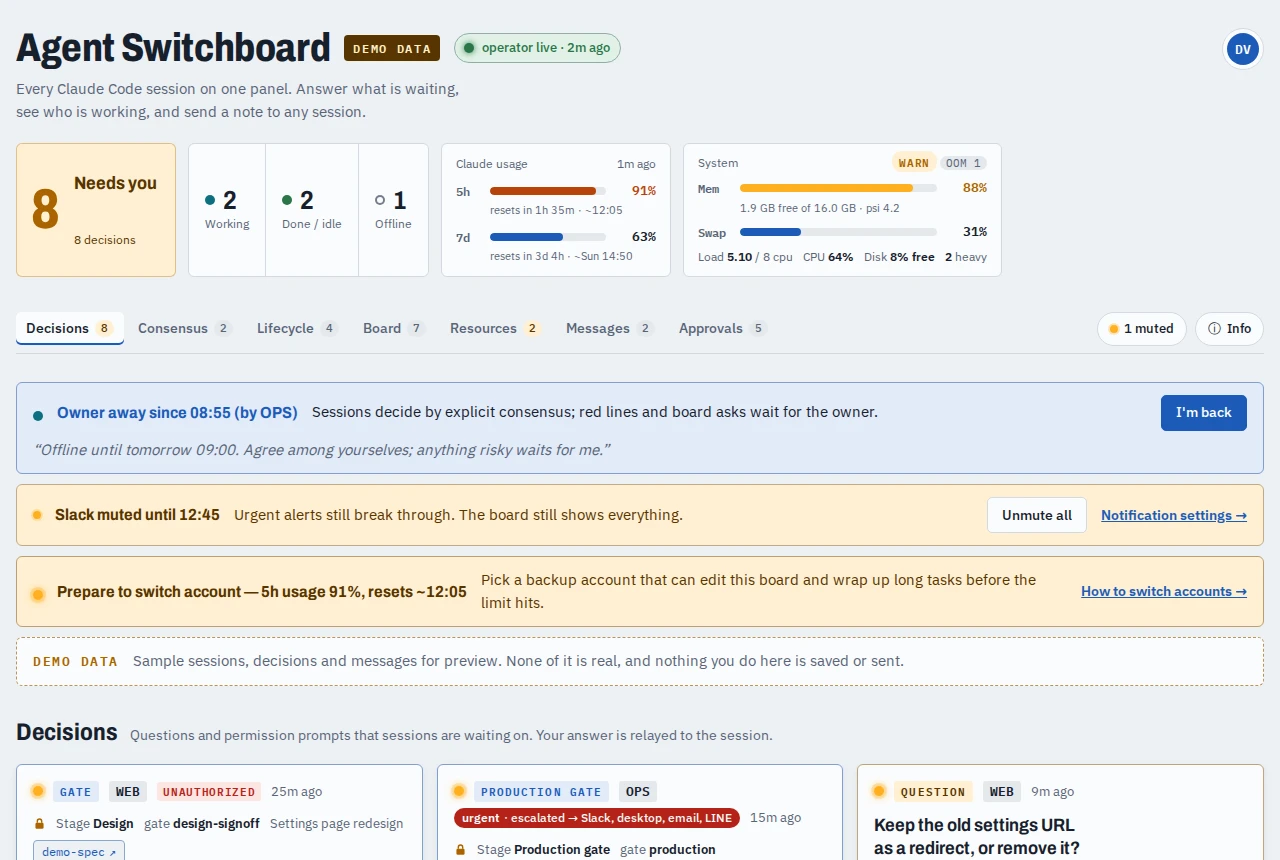
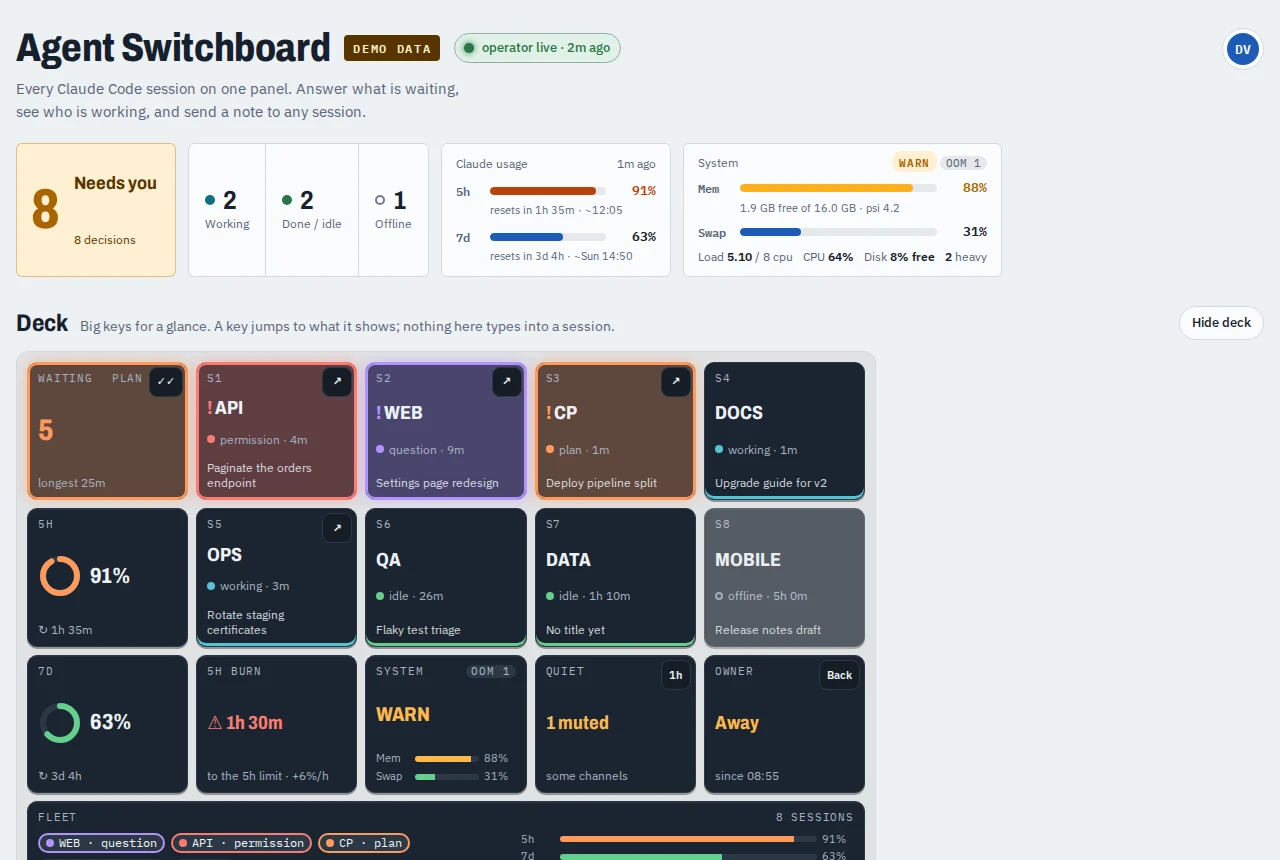
docs: reshoot the screenshots with the Deck panel, add a deck close-up
scripts/screenshots.py renders a new deck shot (the Deck panel, dark); it is in both README galleries (zh-TW caption and alt text), the Pages index (from the script's list) and test_site's expected set (12). The overviews, cards, decisions, popover, menu and phone shots are re-rendered with the deck on the page; the light overview's alt text now describes what it shows. Under reduced motion the usage ring no longer transitions.

diff --git a/artifact/board.html b/artifact/board.html
@@ -674,6 +674,7 @@ table.log { border-collapse: collapse; width: 100%; font-size: 13px; min-width: 
 @media (prefers-reduced-motion: reduce) {
   .dkey.waiting { animation: none; background: color-mix(in srgb, var(--kc) 30%, var(--dk-face)); }
   .dkey:active { transform: none; }
+  .dkey .k-ring .val { transition: none; }
 }
 .dkey .k-bang { display: none; margin-right: 3px; }
 /* the HITL key */

diff --git a/scripts/screenshots.py b/scripts/screenshots.py
@@ -49,8 +49,9 @@ PHONE = {"width": 390, "height": 844}
 
 # name: (alt text, viewport, color scheme, device scale factor)
 SHOTS = {
-    "overview-light": ("The board in light mode: decisions waiting, usage meters, owner-away banner", DESKTOP, "light", 1),
+    "overview-light": ("The board in light mode: the needs-you count, usage and system meters, and the Deck panel", DESKTOP, "light", 1),
     "overview-dark": ("The board in dark mode", DESKTOP, "dark", 1),
+    "deck": ("The Deck panel: the HITL count, session keys coloured by what they wait for, usage rings, the burn rate and the fleet strip", DESKTOP, "dark", 1),
     "session-card": ("Session cards by state, one expanded with its title, pending decisions, running tool and tmux target", DESKTOP, "light", 1),
     "decisions": ("Decision cards: a permission prompt with Allow / Deny and a question with its options", DESKTOP, "light", 1),
     "notifications": ("The Notifications dialog: mutes, triage floor and presence", {"width": 1280, "height": 1100}, "light", 1),
@@ -139,6 +140,8 @@ def shoot(page, name):
         page.click('article[aria-label="Session API"] .scard-toggle')
         page.wait_for_timeout(150)
         return page.screenshot(full_page=True, clip=union(page, ["#board .sec-head", "#board-cols"]))
+    if name == "deck":
+        return page.locator("#deck").screenshot()
     if name == "decisions":
         return page.screenshot(full_page=True, clip=union(page, ["#decisions .sec-head", "#dec-d-1-demo", "#dec-d-2-demo"]))
     if name == "notifications":

diff --git a/tests/test_site.py b/tests/test_site.py
@@ -76,7 +76,7 @@ def main():
         check("the script runs", r.returncode == 0, r.stderr[-400:])
         want = sorted(n + ".webp" for n in names)
         got = sorted(os.listdir(shots)) if os.path.isdir(shots) else []
-        check("every shot is written (%d)" % len(want), got == want and len(want) == 11, got)
+        check("every shot is written (%d)" % len(want), got == want and len(want) == 12 and "deck.webp" in want, got)
         for f in got:
             with open(os.path.join(shots, f), "rb") as fh:
                 head = fh.read(12)

diff --git a/README.zh-TW.md b/README.zh-TW.md
@@ -27,12 +27,12 @@
 
 | | |
 |---|---|
-| <a href="docs/assets/screenshots/overview-zh.webp"><img src="docs/assets/screenshots/overview-zh.webp" width="420" alt="繁體中文介面的看板"></a><br>總覽（繁體中文） | <a href="docs/assets/screenshots/overview-light.webp"><img src="docs/assets/screenshots/overview-light.webp" width="420" alt="淺色模式的看板：待決策、用量表、主人不在的橫幅"></a><br>總覽（English，淺色） |
-| <a href="docs/assets/screenshots/overview-dark.webp"><img src="docs/assets/screenshots/overview-dark.webp" width="420" alt="深色模式的看板"></a><br>總覽（深色） | <a href="docs/assets/screenshots/session-card.webp"><img src="docs/assets/screenshots/session-card.webp" width="420" alt="依狀態分欄的 session 卡片，其中一張展開，顯示標題、待決策、執行中的工具和 tmux 目標"></a><br>Session 卡片，其中一張展開 |
-| <a href="docs/assets/screenshots/decisions.webp"><img src="docs/assets/screenshots/decisions.webp" width="420" alt="決策卡片：有 Allow / Deny 的權限提示，以及附選項的問題"></a><br>決策：權限提示、問題、關卡 | <a href="docs/assets/screenshots/notifications.webp"><img src="docs/assets/screenshots/notifications.webp" width="420" alt="通知對話框：靜音、分級門檻和在線狀態"></a><br>通知：靜音與分級 |
-| <a href="docs/assets/screenshots/resources.webp"><img src="docs/assets/screenshots/resources.webp" width="420" alt="資源區塊：記憶體、swap、磁碟和各 session 的程序"></a><br>資源：記憶體、磁碟、程序 | <a href="docs/assets/screenshots/usage-popover.webp"><img src="docs/assets/screenshots/usage-popover.webp" width="420" alt="用量提示框：兩個區間的重設時間、達到的門檻和帳號"></a><br>用量提示框：重設時間、門檻、帳號 |
-| <a href="docs/assets/screenshots/profile-menu.webp"><img src="docs/assets/screenshots/profile-menu.webp" width="420" alt="個人選單：身分、角色、主題與語言切換和 API 金鑰"></a><br>個人選單：主題與語言 | <a href="docs/assets/screenshots/phone-dark.webp"><img src="docs/assets/screenshots/phone-dark.webp" width="420" alt="手機上的看板，深色模式"></a><br>手機，深色模式 |
-| <a href="docs/assets/screenshots/pwa-standalone.webp"><img src="docs/assets/screenshots/pwa-standalone.webp" width="420" alt="iPhone 主畫面 app 的看板，避開狀態列"></a><br>iPhone 主畫面 app |  |
+| <a href="docs/assets/screenshots/overview-zh.webp"><img src="docs/assets/screenshots/overview-zh.webp" width="420" alt="繁體中文介面的看板"></a><br>總覽（繁體中文） | <a href="docs/assets/screenshots/overview-light.webp"><img src="docs/assets/screenshots/overview-light.webp" width="420" alt="淺色模式的看板：待你處理的數量、用量與系統表，以及按鍵面板"></a><br>總覽（English，淺色） |
+| <a href="docs/assets/screenshots/overview-dark.webp"><img src="docs/assets/screenshots/overview-dark.webp" width="420" alt="深色模式的看板"></a><br>總覽（深色） | <a href="docs/assets/screenshots/deck.webp"><img src="docs/assets/screenshots/deck.webp" width="420" alt="按鍵面板：等待數、依等待內容上色的 session 按鍵、用量圓環、消耗速度和全體長條"></a><br>按鍵面板：等待中的按鍵、用量、消耗速度 |
+| <a href="docs/assets/screenshots/session-card.webp"><img src="docs/assets/screenshots/session-card.webp" width="420" alt="依狀態分欄的 session 卡片，其中一張展開，顯示標題、待決策、執行中的工具和 tmux 目標"></a><br>Session 卡片，其中一張展開 | <a href="docs/assets/screenshots/decisions.webp"><img src="docs/assets/screenshots/decisions.webp" width="420" alt="決策卡片：有 Allow / Deny 的權限提示，以及附選項的問題"></a><br>決策：權限提示、問題、關卡 |
+| <a href="docs/assets/screenshots/notifications.webp"><img src="docs/assets/screenshots/notifications.webp" width="420" alt="通知對話框：靜音、分級門檻和在線狀態"></a><br>通知：靜音與分級 | <a href="docs/assets/screenshots/resources.webp"><img src="docs/assets/screenshots/resources.webp" width="420" alt="資源區塊：記憶體、swap、磁碟和各 session 的程序"></a><br>資源：記憶體、磁碟、程序 |
+| <a href="docs/assets/screenshots/usage-popover.webp"><img src="docs/assets/screenshots/usage-popover.webp" width="420" alt="用量提示框：兩個區間的重設時間、達到的門檻和帳號"></a><br>用量提示框：重設時間、門檻、帳號 | <a href="docs/assets/screenshots/profile-menu.webp"><img src="docs/assets/screenshots/profile-menu.webp" width="420" alt="個人選單：身分、角色、主題與語言切換和 API 金鑰"></a><br>個人選單：主題與語言 |
+| <a href="docs/assets/screenshots/phone-dark.webp"><img src="docs/assets/screenshots/phone-dark.webp" width="420" alt="手機上的看板，深色模式"></a><br>手機，深色模式 | <a href="docs/assets/screenshots/pwa-standalone.webp"><img src="docs/assets/screenshots/pwa-standalone.webp" width="420" alt="iPhone 主畫面 app 的看板，避開狀態列"></a><br>iPhone 主畫面 app |
 
 ## 問題
 

diff --git a/README.md b/README.md
@@ -27,11 +27,12 @@ All from the built-in demo data (`scripts/screenshots.py`). Try the [live demo](
 
 | | |
 |---|---|
-| <a href="docs/assets/screenshots/overview-light.webp"><img src="docs/assets/screenshots/overview-light.webp" width="420" alt="The board in light mode: decisions waiting, usage meters, owner-away banner"></a><br>Overview, light | <a href="docs/assets/screenshots/overview-dark.webp"><img src="docs/assets/screenshots/overview-dark.webp" width="420" alt="The board in dark mode"></a><br>Overview, dark |
-| <a href="docs/assets/screenshots/session-card.webp"><img src="docs/assets/screenshots/session-card.webp" width="420" alt="Session cards by state, one expanded with its title, pending decisions, running tool and tmux target"></a><br>Session cards, one expanded | <a href="docs/assets/screenshots/decisions.webp"><img src="docs/assets/screenshots/decisions.webp" width="420" alt="Decision cards: a permission prompt with Allow / Deny and a question with its options"></a><br>Decisions: permission prompts, questions, gates |
-| <a href="docs/assets/screenshots/notifications.webp"><img src="docs/assets/screenshots/notifications.webp" width="420" alt="The Notifications dialog: mutes, triage floor and presence"></a><br>Notifications: mutes and triage | <a href="docs/assets/screenshots/resources.webp"><img src="docs/assets/screenshots/resources.webp" width="420" alt="The Resources section: memory, swap, disks and per-session processes"></a><br>Resources: memory, disks, processes |
-| <a href="docs/assets/screenshots/usage-popover.webp"><img src="docs/assets/screenshots/usage-popover.webp" width="420" alt="The usage popover: both windows with reset times, the threshold reached and the account"></a><br>Usage popover: resets, threshold, account | <a href="docs/assets/screenshots/profile-menu.webp"><img src="docs/assets/screenshots/profile-menu.webp" width="420" alt="The profile menu: identity, roles, theme and language switchers, API keys"></a><br>Profile menu: theme and language |
-| <a href="docs/assets/screenshots/phone-dark.webp"><img src="docs/assets/screenshots/phone-dark.webp" width="420" alt="The board on a phone, dark mode"></a><br>Phone, dark mode | <a href="docs/assets/screenshots/pwa-standalone.webp"><img src="docs/assets/screenshots/pwa-standalone.webp" width="420" alt="The board as an iPhone home-screen app, clear of the status bar"></a><br>iPhone home-screen app |
+| <a href="docs/assets/screenshots/overview-light.webp"><img src="docs/assets/screenshots/overview-light.webp" width="420" alt="The board in light mode: the needs-you count, usage and system meters, and the Deck panel"></a><br>Overview, light | <a href="docs/assets/screenshots/overview-dark.webp"><img src="docs/assets/screenshots/overview-dark.webp" width="420" alt="The board in dark mode"></a><br>Overview, dark |
+| <a href="docs/assets/screenshots/deck.webp"><img src="docs/assets/screenshots/deck.webp" width="420" alt="The Deck panel: the HITL count, session keys coloured by what they wait for, usage rings, the burn rate and the fleet strip"></a><br>Deck panel: waiting keys, usage, burn rate | <a href="docs/assets/screenshots/session-card.webp"><img src="docs/assets/screenshots/session-card.webp" width="420" alt="Session cards by state, one expanded with its title, pending decisions, running tool and tmux target"></a><br>Session cards, one expanded |
+| <a href="docs/assets/screenshots/decisions.webp"><img src="docs/assets/screenshots/decisions.webp" width="420" alt="Decision cards: a permission prompt with Allow / Deny and a question with its options"></a><br>Decisions: permission prompts, questions, gates | <a href="docs/assets/screenshots/notifications.webp"><img src="docs/assets/screenshots/notifications.webp" width="420" alt="The Notifications dialog: mutes, triage floor and presence"></a><br>Notifications: mutes and triage |
+| <a href="docs/assets/screenshots/resources.webp"><img src="docs/assets/screenshots/resources.webp" width="420" alt="The Resources section: memory, swap, disks and per-session processes"></a><br>Resources: memory, disks, processes | <a href="docs/assets/screenshots/usage-popover.webp"><img src="docs/assets/screenshots/usage-popover.webp" width="420" alt="The usage popover: both windows with reset times, the threshold reached and the account"></a><br>Usage popover: resets, threshold, account |
+| <a href="docs/assets/screenshots/profile-menu.webp"><img src="docs/assets/screenshots/profile-menu.webp" width="420" alt="The profile menu: identity, roles, theme and language switchers, API keys"></a><br>Profile menu: theme and language | <a href="docs/assets/screenshots/phone-dark.webp"><img src="docs/assets/screenshots/phone-dark.webp" width="420" alt="The board on a phone, dark mode"></a><br>Phone, dark mode |
+| <a href="docs/assets/screenshots/pwa-standalone.webp"><img src="docs/assets/screenshots/pwa-standalone.webp" width="420" alt="The board as an iPhone home-screen app, clear of the status bar"></a><br>iPhone home-screen app |  |
 
 ## The problem
 
